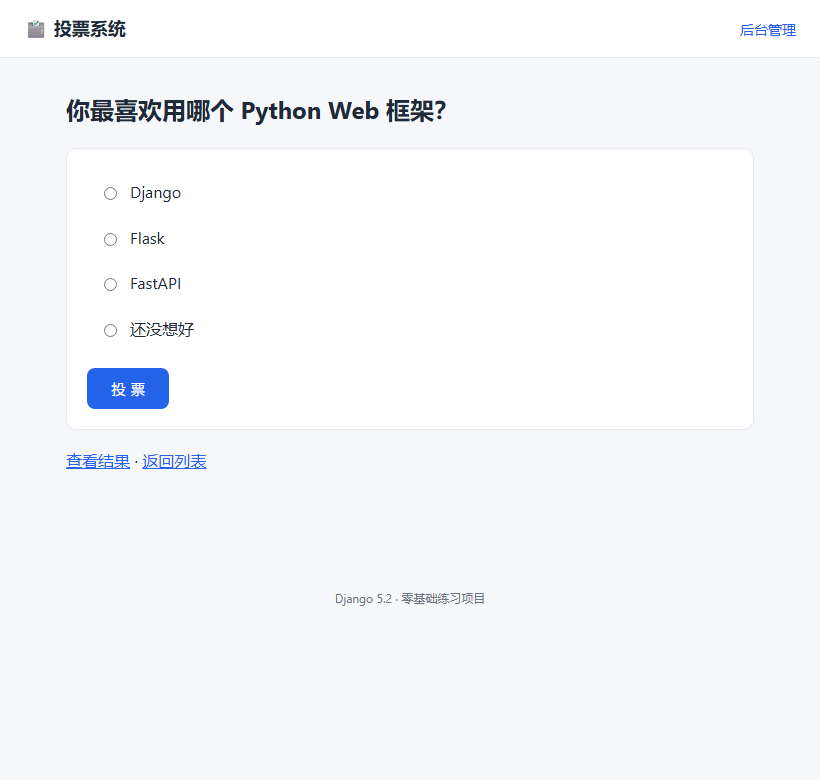
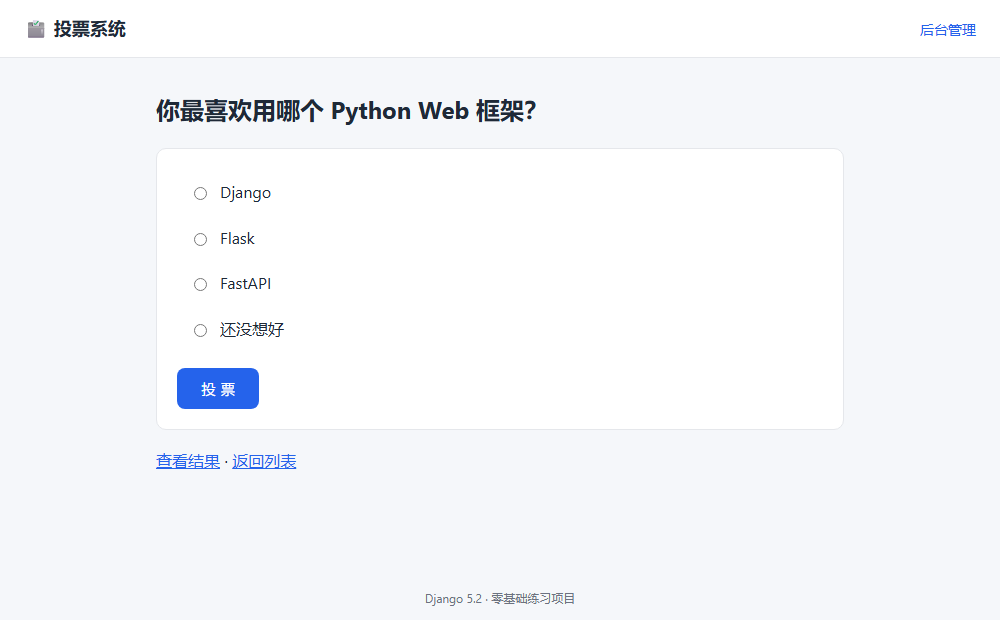
docs: 更新效果预览图与全部过期内容
- 重拍 4 张界面截图（列表页含创建入口与票数、创建页、投票页、结果页含饼图）
- 新增 docs/screenshot-create.png
- 效果预览改为 2x2 四图，标题改为「Django 实战」
- 目录补 7. 测试结果
- requirements 注释修正（Django + python-dotenv，不是「只有 Django」）
- 执行策略说明改为 RemoteSigned（仅当前用户），不再用 -Scope Process 绕
- 项目结构补 templates/polls 四个模板
- 群聊回复模板更新为 13 个测试 + 三处增强；GitHub 推送改为 SSH 说明
- 学习笔记补第 13 节（ModelForm / annotate / SVG 饼图 / ALLOWED_HOSTS）
  和第 14 节 5 道新自测题

diff --git a/docs/Django学习笔记.md b/docs/Django学习笔记.md
@@ -352,3 +352,142 @@ python manage.py test        # 跑全部
 8. 没有。QuerySet 是惰性的，遍历 / 切片 / `len()` 时才真正执行 SQL。
 
 </details>
+
+---
+
+## 13. 本周新增的四块（教程里没有的）
+
+### 13.1 ModelForm：在网页上创建投票
+
+以前只能在 admin 里建题，现在用户自己就能建。核心是 `polls/forms.py`：
+
+```python
+class QuestionCreateForm(forms.ModelForm):
+    choice_1 = forms.CharField(label='选项 1', max_length=200)
+    choice_2 = forms.CharField(label='选项 2', max_length=200)
+    choice_3 = forms.CharField(label='选项 3', max_length=200, required=False)
+
+    class Meta:
+        model = Question
+        fields = ['question_text']
+```
+
+要点：
+
+- `ModelForm` 按模型自动生成字段和校验，不用手写 `<input>`
+- 额外的 `choice_1/2/3` 不是 `Question` 的字段，是给 `Choice` 用的，所以单独声明
+- `required=False` 表示可留空（选项 3、4）
+
+**整体校验写在 `clean()` 里**——单字段校验用 `clean_<字段名>`，跨字段的用 `clean()`：
+
+```python
+def clean(self):
+    cleaned = super().clean()
+    filled = [cleaned.get('choice_%d' % i) for i in range(1, 5) if cleaned.get('choice_%d' % i)]
+    if len(filled) < 2:
+        raise forms.ValidationError('至少要填两个选项，不然投票没有意义。')
+    return cleaned
+```
+
+**视图里为什么要 `commit=False`**：
+
+```python
+question = form.save(commit=False)   # 先拿到对象，但不写库
+question.pub_date = timezone.now()   # 补上表单里没有的字段
+question.save()                      # 现在才 INSERT
+```
+
+因为 `pub_date` 不该让用户填（用户能随便改发布时间就不对了），所以表单里没有它，
+必须 `commit=False` 补上再存。
+
+### 13.2 annotate：让数据库帮你统计
+
+首页要显示「每题有几个选项、一共多少票」。笨办法是循环里一条条查，会查 N+1 次。
+正确做法是一次查询算完：
+
+```python
+Question.objects.filter(pub_date__lte=timezone.now()).annotate(
+    choice_count=Count('choices'),
+    total_votes=Sum('choices__votes'),
+)
+```
+
+它翻译成 SQL 的 `COUNT()` 和 `SUM()` 配合 `GROUP BY`，**所有统计在数据库里完成**，
+Python 只拿到结果。模板里直接 `{{ question.total_votes }}` 就行。
+
+> 注意：`Count` 和 `Sum` 作用在**同一个**关联表上是安全的；如果作用在两个不同的
+> 多对多/外键关系上，会产生笛卡尔积导致数字翻倍，那时要用 `distinct=True`。
+
+### 13.3 SVG 饼图：不引图表库
+
+结果页的环形图是纯 SVG 画的，没有任何 JS 依赖。原理只有一个：
+
+```html
+<circle pathLength="100"
+        stroke-dasharray="60 100"
+        stroke-dashoffset="-0" />
+```
+
+- `pathLength="100"` 把圆周长度**归一成 100**，于是 `stroke-dasharray` 可以直接写百分比
+- `stroke-dasharray="60 100"` = 画 60 份实线、100 份空白 → 一段 60% 的弧
+- `stroke-dashoffset="−起点"` 让这段弧从圆周的某个位置开始
+
+**视图负责算两个数**：
+
+```python
+running = 0.0
+for choice in choices:
+    ratio = choice.votes / total
+    pie_len = round(ratio * 100, 3)      # 弧长
+    pie_start = round(running * 100, 3)  # 起点 = 前面所有选项占比之和
+    running += ratio
+```
+
+> 起点要用「累积比」算，不能把「上一个选项的百分比」直接相加——四舍五入会让
+> 最后一段接不上、留一道缝。
+
+**踩过的坑**：`{# 注释 #}` 在 Django 里**只支持单行**。写成多行不会被当注释，
+会原样输出到页面上。多行注释要用 `{% comment %}...{% endcomment %}`。
+
+### 13.4 ALLOWED_HOSTS：为什么手机连不上
+
+现象：本机能开，手机输入电脑 IP 却报 400 / `DisallowedHost`。
+
+原因有两层，缺一不可：
+
+1. `runserver` 默认只监听 `127.0.0.1`（只有本机能连）→ 要改成 `0.0.0.0`
+2. Django 的 `ALLOWED_HOSTS` 只认白名单里的 Host → 要把手机访问用的 IP 加进去
+
+**第二层是故意的安全设计**（防 Host 头攻击），不是 bug。光改 `0.0.0.0` 没用。
+
+本项目的做法：`.env` 里设 `DJANGO_ALLOW_LAN=True`，`settings.py` 用
+`socket` 探测本机当前出网 IP 并自动加进 `ALLOWED_HOSTS`，换网络不用手改：
+
+```python
+if os.environ.get('DJANGO_ALLOW_LAN', '').lower() in ('1', 'true', 'yes', 'on'):
+    _sock = socket.socket(socket.AF_INET, socket.SOCK_DGRAM)
+    _sock.connect(('8.8.8.8', 80))      # UDP 不真的发包，只是让系统选一张网卡
+    _lan_ip = _sock.getsockname()[0]
+    ALLOWED_HOSTS.append(_lan_ip)
+```
+
+---
+
+## 14. 补充自测题（这周新增的）
+
+9. `ModelForm` 的 `commit=False` 到底「不做」什么？什么时候必须用它？
+10. `annotate(Count(...))` 比在 Python 里循环统计好在哪？
+11. 饼图里 `pathLength="100"` 起了什么作用？
+12. `{# #}` 和 `{% comment %}` 有什么区别？
+13. 为什么把 `runserver` 改成 `0.0.0.0` 之后，手机还是打不开？
+
+<details>
+<summary>参考答案</summary>
+
+9. 不写数据库。表单里缺少必填字段（如 `pub_date`）时，必须先拿到对象补上再 `save()`。
+10. 一条 SQL 在数据库里算完，避免 N+1 查询；数据量大时差距明显。
+11. 把圆周长度归一成 100 份，于是 `stroke-dasharray` 可以直接写百分比，不用算三角函数。
+12. `{# #}` 只能单行，多行会漏到页面上；`{% comment %}` 支持多行。
+13. 因为 `ALLOWED_HOSTS` 只认白名单，还要把手机访问用的 IP 加进去（防 Host 头攻击）。
+
+</details>

diff --git a/README.md b/README.md
@@ -6,20 +6,27 @@
 - [x] 4. 常用命令
 - [x] 5. 换台电脑怎么复现
 - [x] 6. 本周任务对照
+- [x] 7. 测试结果
 
 ---
 
-# Django 零基础实战 · 投票系统（polls）
+# Django 实战 · 投票系统（polls）
 
 > 对应群任务：**搭建 Django 环境 + 熟悉 Django 框架**（2026 年 10 月第 4 周）
 > 项目位置：`D:\ai宝贝\09_Django项目\django-learn`
 > GitHub 仓库：<https://github.com/VictoriaIvory/django-learn>
 
+在官方教程的基础上加了三样：**网页端创建投票**、**结果页 SVG 饼图**、**局域网多设备投票**。
+
 ## 效果预览
 
-| 投票列表 | 投票页面 | 结果统计 |
-| --- | --- | --- |
-| ![列表页](docs/screenshot-index.png) | ![详情页](docs/screenshot-detail.png) | ![结果页](docs/screenshot-results.png) |
+| 投票列表 | 创建投票 |
+| --- | --- |
+| ![列表页](docs/screenshot-index.png) | ![创建投票页](docs/screenshot-create.png) |
+
+| 投票页面 | 结果统计（含占比饼图） |
+| --- | --- |
+| ![详情页](docs/screenshot-detail.png) | ![结果页](docs/screenshot-results.png) |
 
 ## 0. 环境信息
 
@@ -48,11 +55,13 @@ cd D:\ai宝贝\09_Django项目\django-learn
 python manage.py runserver
 ```
 
-如果报「无法加载文件 …Activate.ps1，因为在此系统上禁止运行脚本」，先执行一次：
-
-```powershell
-Set-ExecutionPolicy -Scope Process -ExecutionPolicy RemoteSigned
-```
+> 本机已把 PowerShell 执行策略设为 `RemoteSigned`（仅当前用户），所以 `Activate.ps1`
+> 能直接运行。换到新电脑如果报「无法加载文件 …Activate.ps1，因为在此系统上禁止运行脚本」，
+> 执行一次即可：
+>
+> ```powershell
+> Set-ExecutionPolicy -Scope CurrentUser -ExecutionPolicy RemoteSigned
+> ```
 
 ### 页面地址
 
@@ -101,7 +110,7 @@ ipconfig
 django-learn/
 ├── manage.py               # 项目管理入口，所有命令都从它开始
 ├── db.sqlite3              # SQLite 数据库（本地生成，不进 Git；clone 后需 migrate + seed_demo）
-├── requirements.txt        # 依赖清单（只有 Django）
+├── requirements.txt        # 依赖清单（Django + python-dotenv）
 ├── venv/                   # 虚拟环境（不要提交到 Git）
 ├── mysite/                 # 项目配置包（一个项目可以有多个 app）
 │   ├── settings.py         # 全局配置：应用、数据库、语言、时区…
@@ -119,7 +128,11 @@ django-learn/
 │   └── management/commands/seed_demo.py   # 自定义命令：插演示数据
 ├── templates/              # T —— 模板（HTML）
 │   ├── base.html           # 母版：头部 / 导航 / 页脚
-│   └── polls/              # 各页面模板
+│   └── polls/
+│       ├── index.html      # 列表（含「＋ 创建一个投票」入口、每题票数）
+│       ├── create.html     # 创建投票（ModelForm）
+│       ├── detail.html     # 投票
+│       └── results.html    # 结果（SVG 饼图 + 条形图 + 领先项）
 └── .vscode/                # VS Code 配置（F5 启动、解释器路径）
 ```
 
